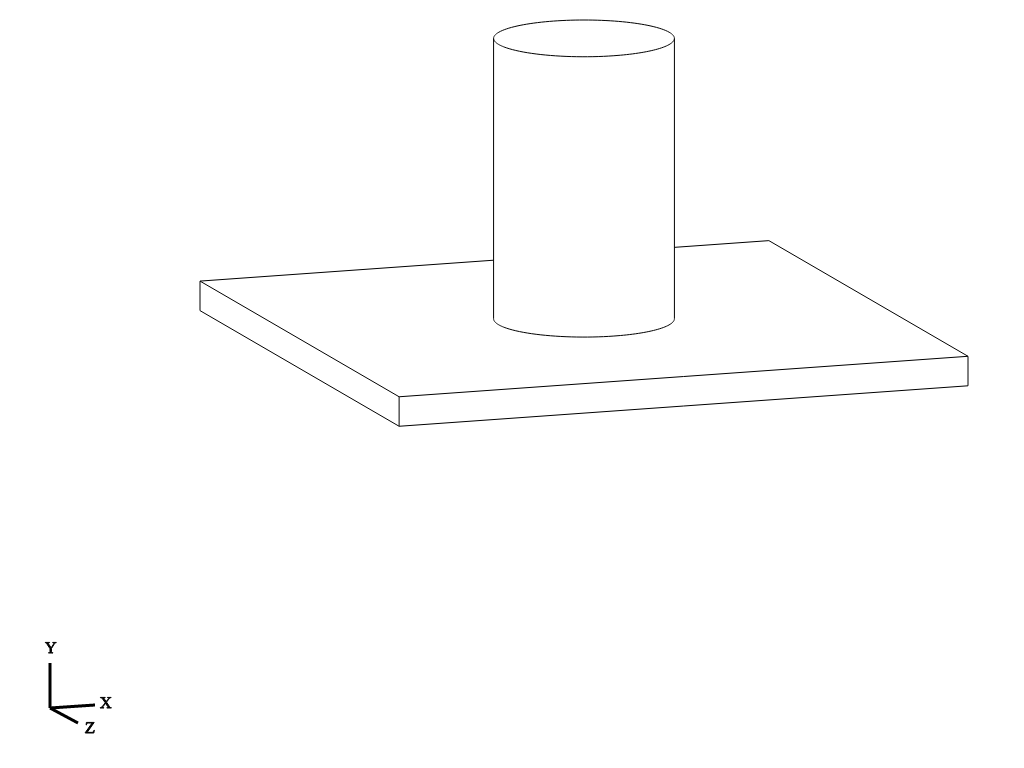
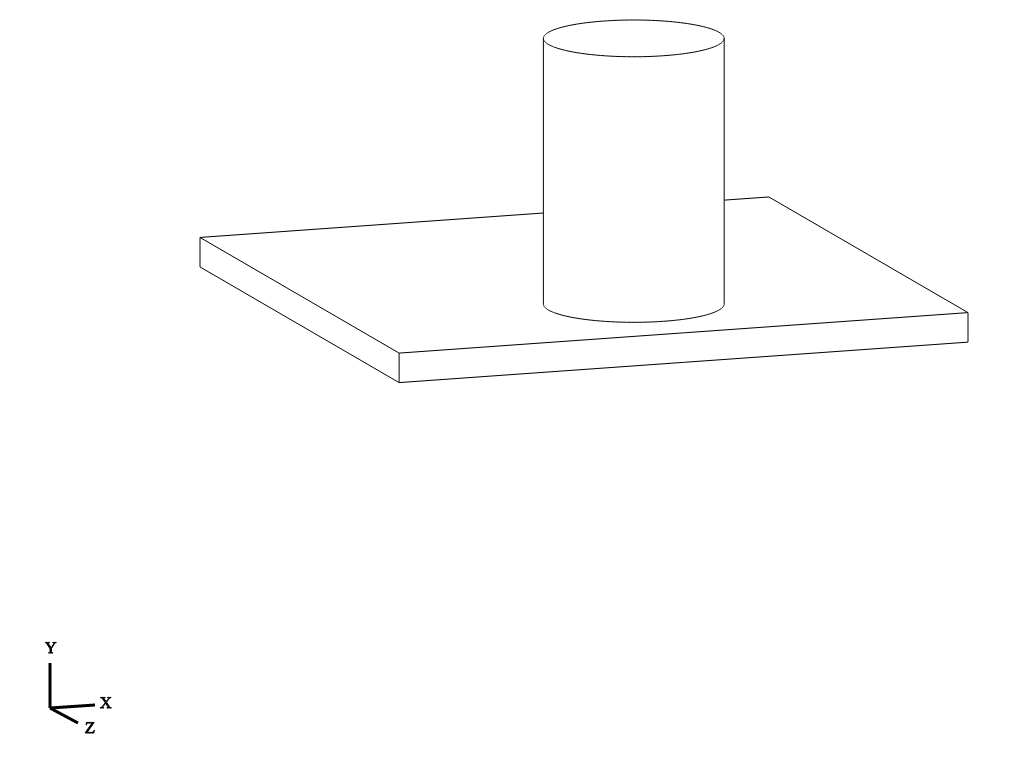
refactor(examples): use identical .center(10, 0) in pure BRep XZ vs ZX chains

diff --git a/examples/workplane_xz_vs_zx.py b/examples/workplane_xz_vs_zx.py
@@ -1,41 +1,47 @@
-# Example: Demonstrates how Workplane("XZ") extrudes in -Y while Workplane("ZX") extrudes in +Y.
+# Example: Demonstrates both effects of switching from Workplane("XZ") to Workplane("ZX")
+# using identical BRep chains with .center(10, 0):
+#   1. On "XZ", .extrude() travels in -Y (downward), and .center(10, 0) shifts along +X.
+#   2. On "ZX", .extrude() travels in +Y (upward), and .center(10, 0) shifts along +Z
+#      because local 2D coordinates on "ZX" are (z, x).
 
 import cadquery as cq
 
 # Parameters
 plate_size = 40.0
 plate_thickness = 2.0
-cyl_radius = 5.0
+cyl_radius = 6.0
 cyl_length = 20.0
-x_offset = 10.0
+offset = 10.0
 
-# Thin square plate on the XZ plane at Y = 0.
-# Because "XZ" has xDir = +X and yDir = +Z, the right-hand rule (X x Z = -Y)
-# sets the plane normal to (0, -1, 0), so .extrude(2) extrudes from Y = 0 to Y = -2.
-plate = cq.Workplane("XZ").rect(plate_size, plate_size).extrude(plate_thickness)
-
-# Cylinder extruded with a positive distance (+20) on Workplane("XZ") at global X = -10.
-# Because the "XZ" normal points in -Y, this cylinder extends backward (Y: 0 -> -20).
-cyl_xz = (
+# 1. Workplane("XZ"): xDir = +X, yDir = +Z, normal = -Y (X x Z = -Y)
+#    - Plate and cylinder extrude backward in -Y (Y: 0 -> -20)
+#    - .center(10, 0) places the cylinder at global X = +10, Z = 0 (near the +X right edge)
+result_xz = (
     cq.Workplane("XZ")
-    .center(-x_offset, 0)  # on "XZ", local (x, y) maps to global (X, Z)
+    .tag("base_plane")
+    .rect(plate_size, plate_size)
+    .extrude(plate_thickness)          # Extrudes plate in -Y (Y: 0 -> -2)
+    .workplaneFromTagged("base_plane") # Reuses the "XZ" datum plane at Y = 0
+    .center(offset, 0)                 # Local (10, 0) -> global X = +10, Z = 0
     .circle(cyl_radius)
-    .extrude(cyl_length)
+    .extrude(cyl_length)               # Extrudes cylinder in -Y (Y: 0 -> -20)
 )
 
-# Cylinder extruded with a positive distance (+20) on the forward cyclic Workplane("ZX")
-# at global X = +10.
-# Because "ZX" has xDir = +Z and yDir = +X, the right-hand rule (Z x X = +Y)
-# sets the plane normal to (0, +1, 0), so this cylinder extends forward (Y: 0 -> +20).
-# Note that 2D coordinates on "ZX" are ordered (z, x).
-cyl_zx = (
+# 2. Workplane("ZX"): xDir = +Z, yDir = +X, normal = +Y (Z x X = +Y)
+#    - Changing only "XZ" -> "ZX" flips the extrusion to +Y (Y: 0 -> +20)
+#    - The same .center(10, 0) now places the cylinder at global Z = +10, X = 0
+#      (near the +Z front edge), because local (x, y) on "ZX" maps to global (Z, X).
+#      To place it at global X = +10, Z = 0 on "ZX", use .center(0, offset).
+result = (
     cq.Workplane("ZX")
-    .center(0, x_offset)   # on "ZX", local (x, y) maps to global (Z, X)
+    .tag("base_plane")
+    .rect(plate_size, plate_size)
+    .extrude(plate_thickness)          # Extrudes plate in +Y (Y: 0 -> +2)
+    .workplaneFromTagged("base_plane") # Reuses the "ZX" datum plane at Y = 0
+    .center(offset, 0)                 # Local (10, 0) -> global Z = +10, X = 0!
     .circle(cyl_radius)
-    .extrude(cyl_length)
+    .extrude(cyl_length)               # Extrudes cylinder in +Y (Y: 0 -> +20)
 )
-
-result = plate.union(cyl_xz).union(cyl_zx)
 
 # The following call can be used if running in CQ-editor
 # show_object(result)

diff --git a/WORKPLANE_XZ_VERIFICATION.md b/WORKPLANE_XZ_VERIFICATION.md
@@ -16,7 +16,7 @@ Because $\text{yDir} = \text{zDir} \times \text{xDir}$ (equivalently $\text{zDir
 
 | Definition | `xDir` (Local X) | `yDir` (`zDir × xDir`) | `zDir` (Normal / Extrude) | CadQuery Name |
 |---|---|---|---|---|
-| `Plane(origin, (1, 0, 0), (0, -1, 0))` | `+X` `(1, 0, 0)` | `+Z` `(0, 0, 1)` | **`-Y` `(0, -1, 0)`** | **`"XZ"`** ( or `"bottom"`) |
+| `Plane(origin, (1, 0, 0), (0, -1, 0))` | `+X` `(1, 0, 0)` | `+Z` `(0, 0, 1)` | **`-Y` `(0, -1, 0)`** | **`"XZ"`** (or `"bottom"`) |
 | `Plane(origin, (0, 0, 1), (0, 1, 0))` | **`+Z` `(0, 0, 1)`** | **`+X` `(1, 0, 0)`** | **`+Y` `(0, 1, 0)`** | **`"ZX"`** |
 | `Plane(origin, (1, 0, 0), (0, 1, 0))` | `+X` `(1, 0, 0)` | **`-Z` `(0, 0, -1)`** | **`+Y` `(0, 1, 0)`** | **`"top"`** |
 
@@ -58,17 +58,37 @@ In `cq.Plane.named()`, every two-letter plane name `"AB"` guarantees that the **
 
 ---
 
-## 2. Visual Proof (`./assets/`)
+## 2. Pure BRep Fluent Example & Visual Proof (`./assets/`)
 
-In each isometric render below, note the **`Y` axis arrow pointing UP** in the bottom-left coordinate triad:
+Running the **exact same fluent chain** ([examples/workplane_xz_vs_zx.py](examples/workplane_xz_vs_zx.py)) with `.center(10, 0)` on `Workplane("XZ")` vs `Workplane("ZX")` demonstrates both effects simultaneously. Notice the **`Y` (up), `X` (right), and `Z` (front-right)** axis triad in the bottom-left corner of each render:
 
-### Combined Comparison (`examples/workplane_xz_vs_zx.py`)
-Left cylinder (`X = -10`) extruded `+20` on `Workplane("XZ")` goes **DOWN (`-Y`)**; right cylinder (`X = +10`) extruded `+20` on `Workplane("ZX")` goes **UP (`+Y`)**:
+### 1. `Workplane("XZ")` with `.center(10, 0)` — Extrudes Downward (`-Y`), Shifted Along `+X` (Right Edge)
+```python
+result_xz = (
+    cq.Workplane("XZ")
+    .tag("base_plane")
+    .rect(40, 40)
+    .extrude(2)                        # Extrudes plate in -Y (Y: 0 -> -2)
+    .workplaneFromTagged("base_plane") # Reuses the "XZ" datum plane at Y = 0
+    .center(10, 0)                     # Local (10, 0) -> global X = +10, Z = 0 (right edge)
+    .circle(6)
+    .extrude(20)                       # Extrudes cylinder in -Y (Y: 0 -> -20)
+)
+```
+![Pure BRep chain on Workplane("XZ") with .center(10, 0): extrudes downward in -Y, cylinder near +X right edge](assets/workplane_xz_extrude.png)
 
-![Combined XZ vs ZX cylinder extrusion comparison](assets/xz_vs_zx_comparison.png)
+### 2. `Workplane("ZX")` with `.center(10, 0)` — Extrudes Upward (`+Y`), Shifted Along `+Z` (Front Edge)
+```python
+result_zx = (
+    cq.Workplane("ZX")
+    .tag("base_plane")
+    .rect(40, 40)
+    .extrude(2)                        # Extrudes plate in +Y (Y: 0 -> +2)
+    .workplaneFromTagged("base_plane") # Reuses the "ZX" datum plane at Y = 0
+    .center(10, 0)                     # Local (10, 0) -> global Z = +10, X = 0 (front edge!)
+    .circle(6)
+    .extrude(20)                       # Extrudes cylinder in +Y (Y: 0 -> +20)
+)
+```
+![Pure BRep chain on Workplane("ZX") with .center(10, 0): extrudes upward in +Y, cylinder shifted to +Z front edge](assets/workplane_zx_extrude.png)
 
-### Single Cylinder on `Workplane("XZ")` (`.extrude(20)` -> `Y: 0 to -20`)
-![Single cylinder extruded +20 on Workplane("XZ")](assets/workplane_xz_extrude.png)
-
-### Single Cylinder on `Workplane("ZX")` (`.extrude(20)` -> `Y: 0 to +20`)
-![Single cylinder extruded +20 on Workplane("ZX")](assets/workplane_zx_extrude.png)
